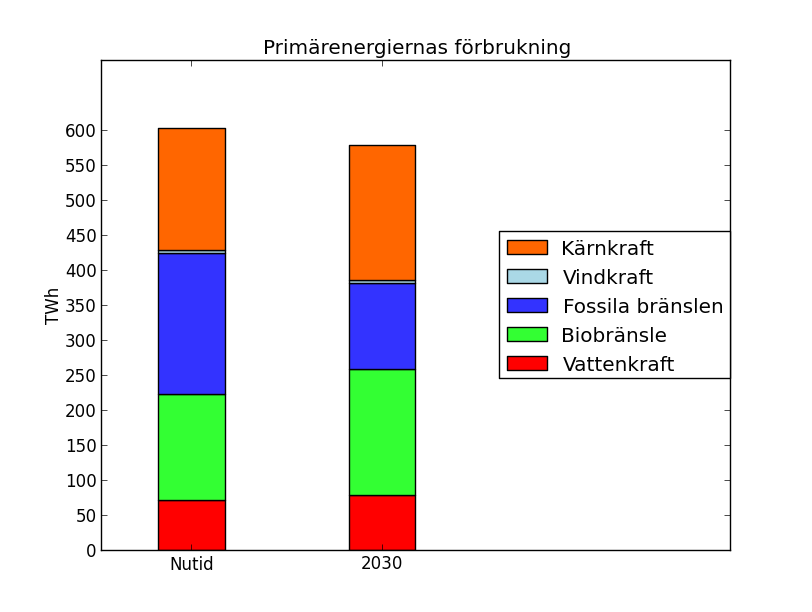
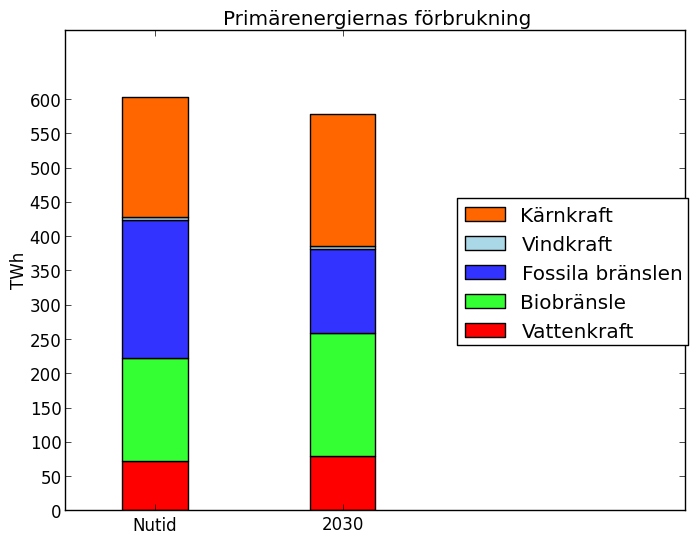
Better tighter images and autosaving from the code

diff --git a/code/scen1a1energy.py b/code/scen1a1energy.py
@@ -24,4 +24,5 @@ ax.set_xticks(ind+width/2.)
 ax.set_yticks(np.arange(0,620,50))
 ax.set_xticklabels(['Nutid', '2030'])
 ax.legend( (p5[0], p4[0], p3[0], p2[0], p1[0]), (u'Kärnkraft', 'Vindkraft', u'Fossila bränslen', u'Biobränsle', 'Vattenkraft'), bbox_to_anchor=(0.632,0.65), loc=2, borderaxespad=0.)
+plt.savefig('../report2/scen1a1energidiagram.png', bbox_inches='tight')
 plt.show()

diff --git a/code/scen2energy.py b/code/scen2energy.py
@@ -25,4 +25,5 @@ ax.set_xticks(ind+width/2.)
 ax.set_yticks(np.arange(0,620,50))
 ax.set_xticklabels(['Nutid', '2030'])
 ax.legend( (p5[0], p4[0], p3[0], p2[0], p1[0]), (u'Kärnkraft', 'Vindkraft', u'Fossila bränslen', u'Biobränsle', 'Vattenkraft'), bbox_to_anchor=(0.632,0.65), loc=2, borderaxespad=0.)
+plt.savefig('../report2/scen2energidiagram.png', bbox_inches='tight')
 plt.show()

diff --git a/code/scen2transport.py b/code/scen2transport.py
@@ -23,6 +23,5 @@ ax.set_xticks(ind+width/2.)
 ax.set_yticks(np.arange(0,120,10))
 ax.set_xticklabels(['Nutid', '2030'])
 ax.legend( (p4[0], p3[0], p2[0], p1[0]), (u'Vätgas med hjälp av el', 'El', u'Biobränsle', 'Fossil energi'))
-
-
+plt.savefig('../report2/scen2transport.png', bbox_inches='tight')
 plt.show()

diff --git a/code/scen1a1transport.py b/code/scen1a1transport.py
@@ -21,6 +21,6 @@ ax.set_xticks(ind+width/2.)
 ax.set_yticks(np.arange(0,120,10))
 ax.set_xticklabels(['Nutid', '2030'])
 ax.legend( (p1[0], p2[0], p3[0]), ('Fossil energi', u'Biobränsle', 'El'))
-
+plt.savefig('../report2/scen1a1transport.png', bbox_inches='tight')
 
 plt.show()
